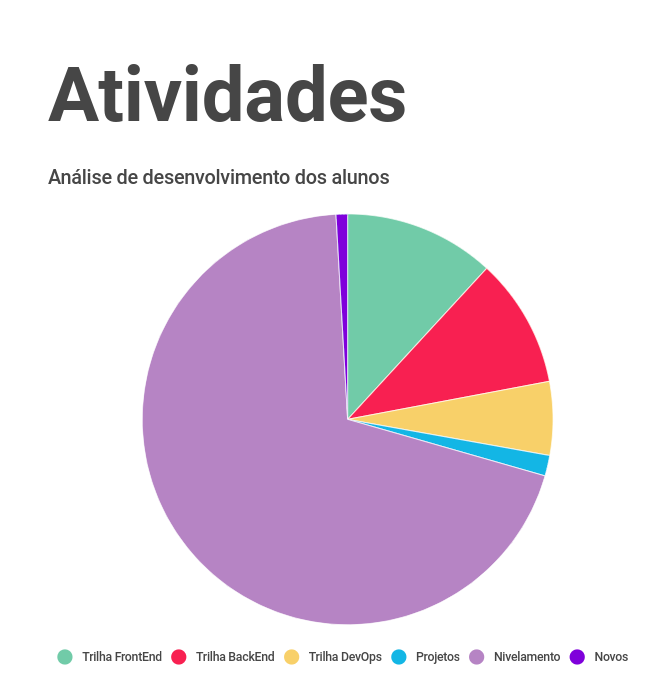
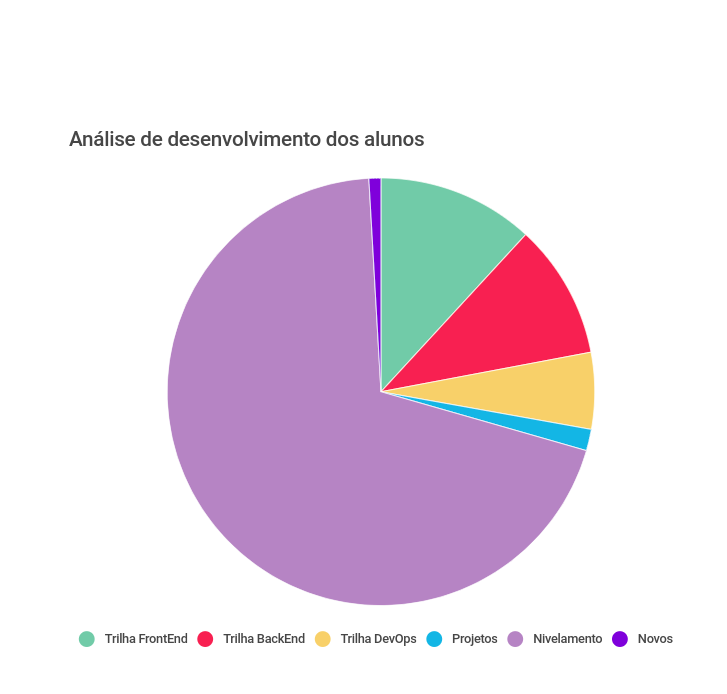
Responsividade versão mobile

Changed region(s): [[0.0625, 0.2421, 0.9375, 0.9683], [0.0625, 0.0908, 0.625, 0.2118]]

diff --git a/index.html b/index.html
@@ -24,6 +24,15 @@
     <header class="navbar navbar-expand-lg navbar-light sticky-top special__bg">
         <nav class="container-fluid">
 
+            <!--Offcanvas Exclusivo para Versão Mobile-->
+
+            <section class="mobile__button" id="mobile__offcanvas">
+                <button class="navbar-toggler" type="button" data-bs-toggle="offcanvas" data-bs-target="#offcanvasScrolling" aria-controls="offcanvasScrolling">
+                    <span class="navbar-toggler-icon"></span>
+                </button>
+            </section>
+
+
             <!--Logo-->
             <section class="logo d-flex align-items-center">
                 <a class="navbar-brand" href="./index.html">
@@ -36,7 +45,7 @@
             <!--Mobile Button-->
             <section class="mobile__button">
                 <button class="navbar-toggler" type="button" data-bs-toggle="collapse" data-bs-target="#navbarNav" aria-controls="navbarNav" aria-expanded="false" aria-label="Toggle navigation">
-                    <span class="navbar-toggler-icon"></span>
+                    <i class="fa-solid fa-user-large p-1"></i>
                 </button>
             </section>
 
@@ -71,10 +80,10 @@
     <main class="container-fluid d-flex content">
 
         <!--aside-->
-        <aside class="aside">
+        <aside class="aside" id="main__aside">
             <ul class="aside__menu">
                 <li class="text-info"><i class="fa-solid fa-house me-2"></i> Home</li>
-                <li><i class="fa-solid fa-envelope"></i><span class="badge bg-danger rounded-circle me-2 p-1">14</span> Mensagens</li>
+                <li><i class="fa-solid fa-envelope me-2"></i>Mensagens</li>
                 <li><i class="fa-solid fa-gear me-2"></i> Ajustes</li>
                 <li><i class="fa-solid fa-headset me-2"></i> Suporte</li>
                 <li><i class="fa-solid fa-calendar-days me-2"></i> Agenda</li>
@@ -153,10 +162,13 @@
 
             </div>
             
-            <div class="row mb-2 col-md-12">
+            <div class="row mb-2">
 
-                <figure class="d-flex">
+                <figure class="col-md-6">
                     <img src="./assets/chart1.png" class="chart__img"/>
+                </figure>
+
+                <figure class="col-md-6">
                     <img src="./assets/chart2.png" class="chart__img"/>
                 </figure>
             
@@ -185,6 +197,7 @@
                     <img src="./assets/logofive.png" alt="logo five" class="footer__img"/>
                 </figure>
             </article>
+            
         </section>
 
        <section class="d-flex justify-content-center align-items-center footer__copyright mt-5 pt-3">
@@ -416,6 +429,34 @@
             </div>
         </div>
 
+    
+<!--Offcanvas Exclusivo para o mobile-->
+
+        <!--Menu Aside Offcanvas-->
+
+        <div class="offcanvas offcanvas-start" data-bs-scroll="true" data-bs-backdrop="false" tabindex="-1" id="offcanvasScrolling" aria-labelledby="offcanvasScrollingLabel">
+            <div class="offcanvas-header d-flex justify-content-end">
+              <button type="button" class="btn-close text-reset p-3" data-bs-dismiss="offcanvas" aria-label="Close"></button>
+            </div>
+            <div class="offcanvas-body">
+              
+                <aside class="aside">
+                    <ul class="aside__menu">
+                        <li class="text-info"><i class="fa-solid fa-house me-2"></i> Home</li>
+                        <li><i class="fa-solid fa-envelope me-2"></i>Mensagens</li>
+                        <li><i class="fa-solid fa-gear me-2"></i> Ajustes</li>
+                        <li><i class="fa-solid fa-headset me-2"></i> Suporte</li>
+                        <li><i class="fa-solid fa-calendar-days me-2"></i> Agenda</li>
+                        <li> <i class="fa-solid fa-chart-column me-2"></i> PDI</li>
+                        <li><i class="fa-solid fa-triangle-exclamation me-2"></i> Avisos</li>
+                        <li><i class="fa-solid fa-circle-plus me-2"></i> Criar turma</li>
+                        <li><i class="fa-solid fa-bars-progress me-2"></i> Plano de Estudos</li>
+                    </ul>
+                </aside>
+
+
+            </div>
+          </div>
         
     <!-- Script bootstrap -->
     <script src="https://cdn.jsdelivr.net/npm/bootstrap@5.1.0/dist/js/bootstrap.bundle.min.js" integrity="sha384-U1DAWAznBHeqEIlVSCgzq+c9gqGAJn5c/t99JyeKa9xxaYpSvHU5awsuZVVFIhvj" crossorigin="anonymous"></script>

diff --git a/css/responsive.css b/css/responsive.css
@@ -2,7 +2,40 @@
 
 /* Mobile*/
     @media(max-width: 767.98px){
-      
+
+        /* Header */
+        header #mobile__offcanvas{
+            display: flex;
+        }
+
+        /*Main*/
+        #main__aside{
+            display: none;
+        }
+
+        /* Footer */
+        footer .footer__tecs{
+            flex-direction: column;
+        }
+
+        footer .footer__info{
+            text-align: center;
+        }
+
+        .footer__icons .footer__icon{
+            width: 30px;
+            height: 30px;
+        }
+        
+        .footer__img{
+            width: 110px;
+            margin-top: 30px;
+        }
+
+        .footer__copyright p {
+            font-size: 12px;
+        }
+
     }
 
 
@@ -55,19 +88,7 @@
     .grid__card h5 .grid__rotule{
         margin: 10px 0px 0px 0px;
     }
-    
-    /* Footer */
 
-    .footer__icons .footer__icon{
-        width: 50px;
-        height: 50px;
-    
-        margin: 5px;
-    }
-    
-    .footer__copyright p {
-        border-top: 1px solid #5555559c;
-    }
 
     /* Footer */
 

diff --git a/classroom.html b/classroom.html
@@ -76,7 +76,7 @@
                   <ul class="aside__menu">
                       <li class="text-info"><i class="fa-solid fa-circle-plus me-2"></i> Criar turma</li>
                       <li><a href="./index.html"><i class="fa-solid fa-house me-2"></i> Home</a></li>
-                      <li><i class="fa-solid fa-envelope"></i><span class="badge bg-danger rounded-circle me-2 p-1">14</span> Mensagens</li>
+                      <li><i class="fa-solid fa-envelope me-2"></i> Mensagens</li>
                       <li><i class="fa-solid fa-gear me-2"></i> Ajustes</li>
                       <li><i class="fa-solid fa-headset me-2"></i> Suporte</li>
                       <li><i class="fa-solid fa-calendar-days me-2"></i> Agenda</li>

diff --git a/css/style.css b/css/style.css
@@ -44,6 +44,10 @@ header .navbar__sub__menu li a{
     font-size: 16px;
 }
 
+header #mobile__offcanvas{
+    display: none;
+}
+
 /* Main */
 
 .content{
@@ -123,7 +127,7 @@ header .navbar__sub__menu li a{
 /* Charts */
 
 .chart__img{
-    width: 50%;
+    width: 100%;
 }
 
 
@@ -164,5 +168,5 @@ header .navbar__sub__menu li a{
 /* Imagem de Erro 404 */
 
 .erro__img{
-    width: 100%;
+    width: 80%;
 }
